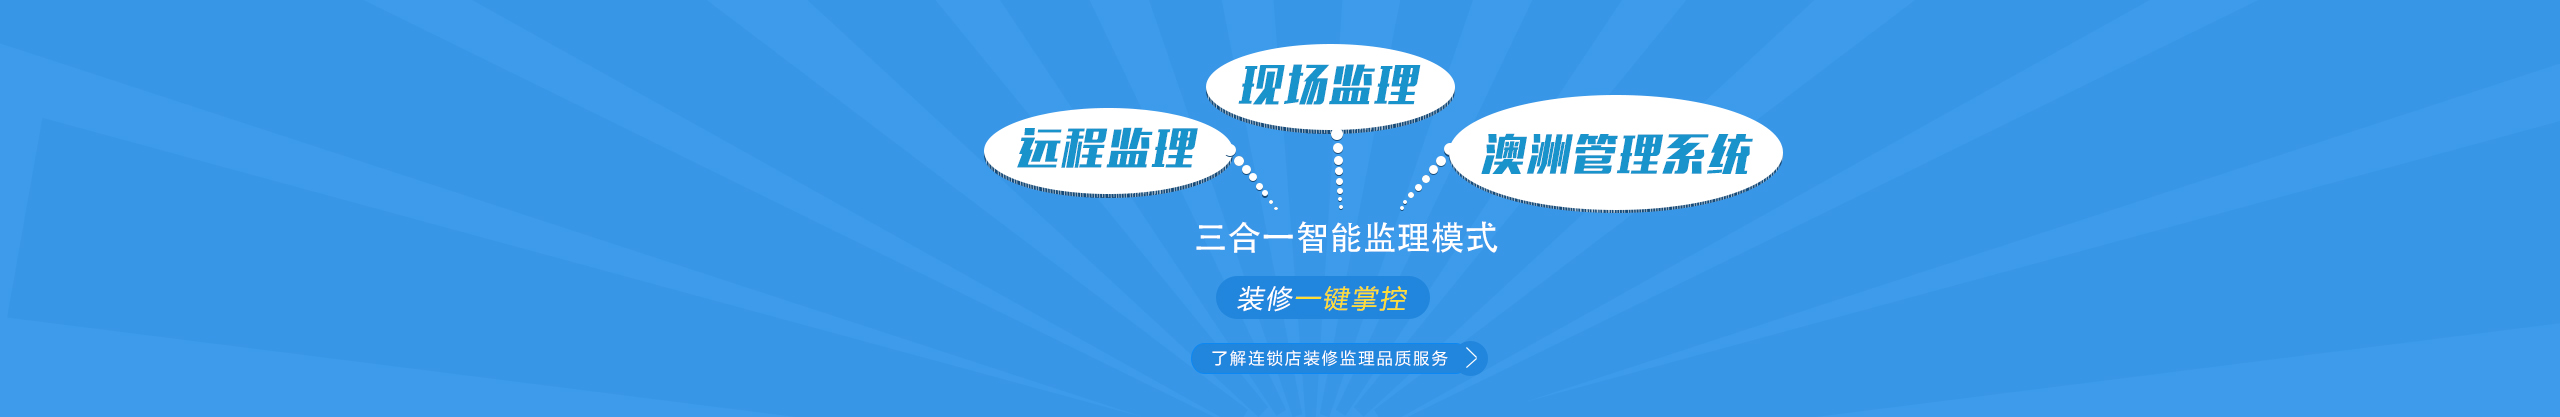
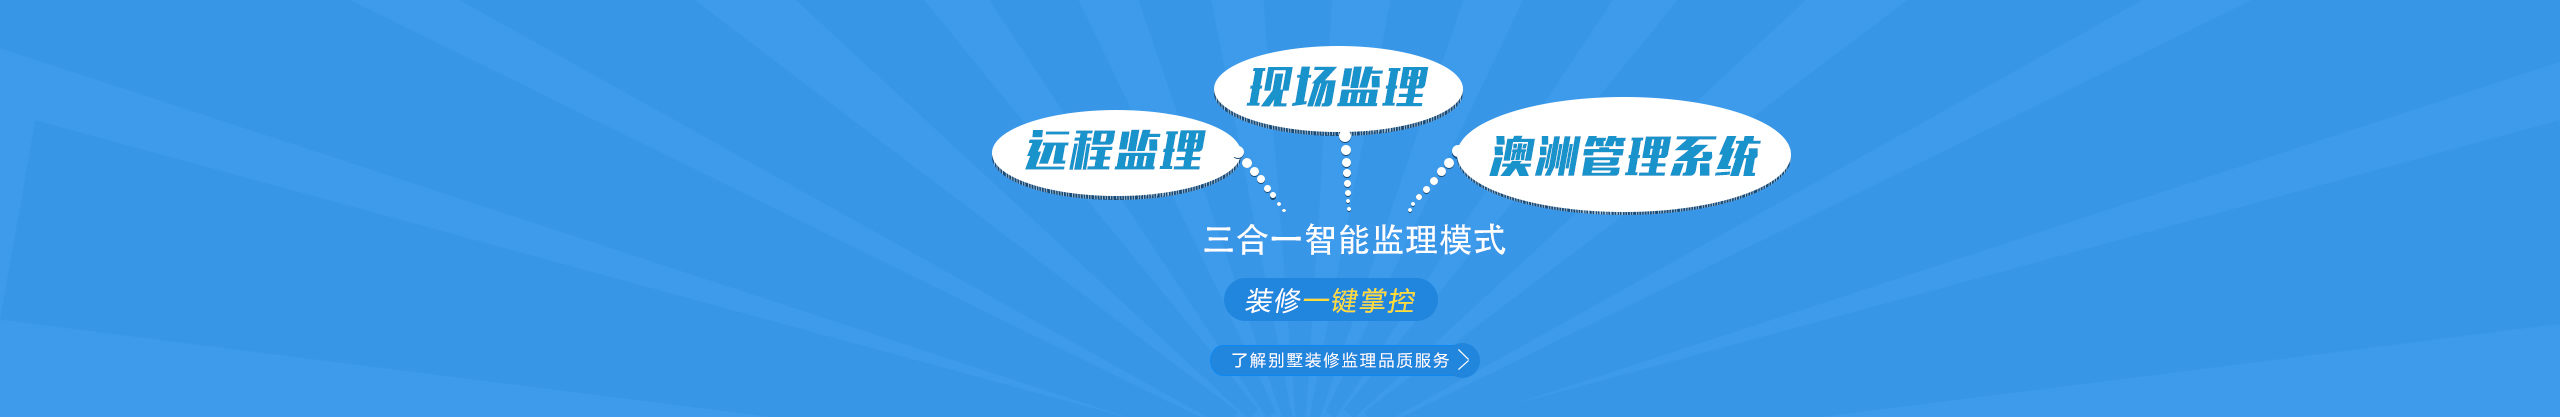
t

diff --git a/newnav/css/zindex.css b/newnav/css/zindex.css
@@ -133,7 +133,7 @@ body{font-size:12px;height:100%; background-color:#f4f4f4;color:#999;font-family
 .titPs{ line-height:35px; color:#777; padding-left:20px; font-family:"微软雅黑"; font-size:16px; background-color:#fff}
 #crumbs dl{ width:57px; float:left; margin:10px 2px 0 6px}
 #crumbs dl dd{ line-height:15px}
-#banBox{ background:url(../images/banimg.png) center repeat-x; height:439px}
+#banBox{ background:url(../images/bg_bgs.jpg) center repeat-x; height:439px}
 #snav{ margin:0 auto}
 #snav a{ text-decoration:none; margin:0 3px; float:left; width:160px; text-align:center; font-family:"微软雅黑"; color:#000; font-size:16px}
 #snav a p{ width:45px; height:45px; cursor:pointer; margin:0 auto; background-image:url(../images/icobg.png); background-repeat:no-repeat}
@@ -393,11 +393,11 @@ ul.toll-touchstone li{ line-height:35px; padding-left:30px; background:url(../im
 .hotel{ background:url(../images/hotelbf.png) center repeat-x}
 #mt .hotelxm{ background:url(../images/hoteldf.png) center repeat-x}
 /*连锁店*/
-#banBox4{ background:url(../images/bigbgimg4.png) center repeat-x; height:439px}
+#banBox4{ background:url(../images/bg_lsd.jpg) center repeat-x; height:439px}
 #mt .multipleShop{ background:url(../images/liansuodians.png) center repeat-x}
 #mt .multipleShopxm{ background:url(../images/liansuodianxm.png) center repeat-x}
 /*实验室*/
-#banBox5{ background:url(../images/shiyanshiban.png) center repeat-x; height:439px}
+#banBox5{ background:url(../images/bg_sys.jpg) center repeat-x; height:439px}
 #mt .laboratory{ background:url(../images/sysjl.png) center repeat-x}
 /*土建*/
 #mt .ciciEngineering{ background:url(../images/tujianas.png) center repeat-x}

diff --git a/newnav/7.html b/newnav/7.html
@@ -4,8 +4,8 @@
             	<li><a href="newnav.php?p=17"><img src="newnav/images/b1111.jpg" width="2560" height="417" /></a></li>
                 <li><a href="newnav.php?p=19"><img src="newnav/images/b2222.jpg" width="2560" height="417" /></a></li>
                 <li><a href="newnav.php?p=19"><img src="newnav/images/b3333.png" width="2560" height="417" /></a></li>
-                <li><a href="newnav.php?p=19"><img src="newnav/images/b4444.png" width="2560" height="417" /></a></li>
-				<li><a href="newnav.php?p=19"><img src="newnav/images/b5555.jpg" width="2560" height="417" /></a></li>
+                <li><a href="html.php?p=company"><img src="newnav/images/b4444.png" width="2560" height="417" /></a></li>
+				<li><a href="html.php?p=choose"><img src="newnav/images/b5555.jpg" width="2560" height="417" /></a></li>
             </ul>
             <div style="width:980px;margin-left:auto;margin-right:auto">
 			<div style="float:right;width:196px;">

diff --git a/newnav/1.html b/newnav/1.html
@@ -1,6 +1,6 @@
 
     <div id="crumbs" class="w-100" style="position:relative">
-    	<a href="index.php">首页</a>&nbsp;&gt;&nbsp;<a href="#">监理类型</a>&nbsp;&gt;&nbsp;3+N套餐监理服务
+    	<a href="shouye.php">首页</a>&nbsp;&gt;&nbsp;<a href="#">监理类型</a>&nbsp;&gt;&nbsp;3+N套餐监理服务
     </div>
     <div id="mt" class="mt-5">
     	<div class="w-100 fw">

diff --git a/newnav/10.html b/newnav/10.html
@@ -1,6 +1,6 @@
 
     <div id="crumbs" class="w-100" style="position:relative">
-    	<a href="index.php">首页</a>&nbsp;&gt;&nbsp;<a href="#">监理类型</a>&nbsp;&gt;&nbsp;节点验收服务
+    	<a href="shouye.php">首页</a>&nbsp;&gt;&nbsp;<a href="#">监理类型</a>&nbsp;&gt;&nbsp;节点验收服务
     </div>
     <div id="mt" class="mt-5">
     	<div class="w-100 fw">

diff --git a/newnav/12.html b/newnav/12.html
@@ -1,6 +1,6 @@
 
     <div id="crumbs" class="w-100" style="position:relative">
-    	<a href="index.php">首页</a>&nbsp;&gt;&nbsp;<a href="#">监理类型</a>&nbsp;&gt;&nbsp;单次服务
+    	<a href="shouye.php">首页</a>&nbsp;&gt;&nbsp;<a href="#">监理类型</a>&nbsp;&gt;&nbsp;单次服务
     </div>
     <div id="mt" class="mt-5">
     	<div class="w-100 fw">

diff --git a/newnav/2.html b/newnav/2.html
@@ -1,6 +1,6 @@
 
     <div id="crumbs" class="w-100" style="position:relative">
-    	<a href="index.php">首页</a>&nbsp;&gt;&nbsp;<a href="#">监理类型</a>&nbsp;&gt;&nbsp;全程监理
+    	<a href="shouye.php">首页</a>&nbsp;&gt;&nbsp;<a href="#">监理类型</a>&nbsp;&gt;&nbsp;全程监理
     </div>
     <div id="mt" class="mt-5">
     	<div class="w-100 fw">

diff --git a/newnav/3.html b/newnav/3.html
@@ -1,6 +1,6 @@
 
     <div id="crumbs" class="w-100" style="position:relative">
-    	<a href="index.php">首页</a>&nbsp;&gt;&nbsp;<a href="#">工装监理</a>&nbsp;&gt;&nbsp;招投标
+    	<a href="shouye.php">首页</a>&nbsp;&gt;&nbsp;<a href="#">工装监理</a>&nbsp;&gt;&nbsp;招投标
     </div>
     <div id="mt" class="mt-5">
     	<div class="w-100 fw">

diff --git a/newnav/11.html b/newnav/11.html
@@ -1,6 +1,6 @@
 
     <div id="crumbs" class="w-100" style="position:relative">
-    	<a href="index.php">首页</a>&nbsp;&gt;&nbsp;<a href="#">预算</a>&nbsp;&gt;&nbsp;线下预算
+    	<a href="shouye.php">首页</a>&nbsp;&gt;&nbsp;<a href="#">预算</a>&nbsp;&gt;&nbsp;线下预算
     </div>
     <div id="mt" class="mt-5">
     	<div class="w-100 fw">

diff --git a/newnav/13.html b/newnav/13.html
@@ -1,6 +1,6 @@
 
     <div id="crumbs" class="w-100" style="position:relative">
-    	<a href="index.php">首页</a>&nbsp;&gt;&nbsp;<a href="#">预算</a>&nbsp;&gt;&nbsp;线上预算
+    	<a href="shouye.php">首页</a>&nbsp;&gt;&nbsp;<a href="#">预算</a>&nbsp;&gt;&nbsp;线上预算
     </div>
     <div id="mt" class="mt-5">
     	<div class="w-100 fw">

diff --git a/newnav/6.html b/newnav/6.html
@@ -1,6 +1,6 @@
 
     <div id="crumbs" class="w-100" style="position:relative">
-    	<a href="index.php">首页</a>&nbsp;&gt;&nbsp;<a href="#">工装</a>&nbsp;&gt;&nbsp;酒店会所
+    	<a href="shouye.php">首页</a>&nbsp;&gt;&nbsp;<a href="#">工装</a>&nbsp;&gt;&nbsp;酒店会所
     </div>
     <div id="banBox3"></div>
     <div class="h-11-5">

diff --git a/newnav/15.html b/newnav/15.html
@@ -1,6 +1,6 @@
 
     <div id="crumbs" class="w-100" style="position:relative">
-    	<a href="index.php">首页</a>&nbsp;&gt;&nbsp;<a href="#">工装</a>&nbsp;&gt;&nbsp;办公室
+    	<a href="shouye.php">首页</a>&nbsp;&gt;&nbsp;<a href="#">工装</a>&nbsp;&gt;&nbsp;办公室
     </div>
     <div id="banBox"></div>
     <div class=" h-11-5">

diff --git a/newnav/8.html b/newnav/8.html
@@ -1,6 +1,6 @@
 
     <div id="crumbs" class="w-100" style="position:relative">
-    	<a href="index.php">首页</a>&nbsp;&gt;&nbsp;<a href="#">工装</a>&nbsp;&gt;&nbsp;实验室
+    	<a href="shouye.php">首页</a>&nbsp;&gt;&nbsp;<a href="#">工装</a>&nbsp;&gt;&nbsp;实验室
     </div>
     <div id="banBox5"></div>
     <div class="h-11-5">
